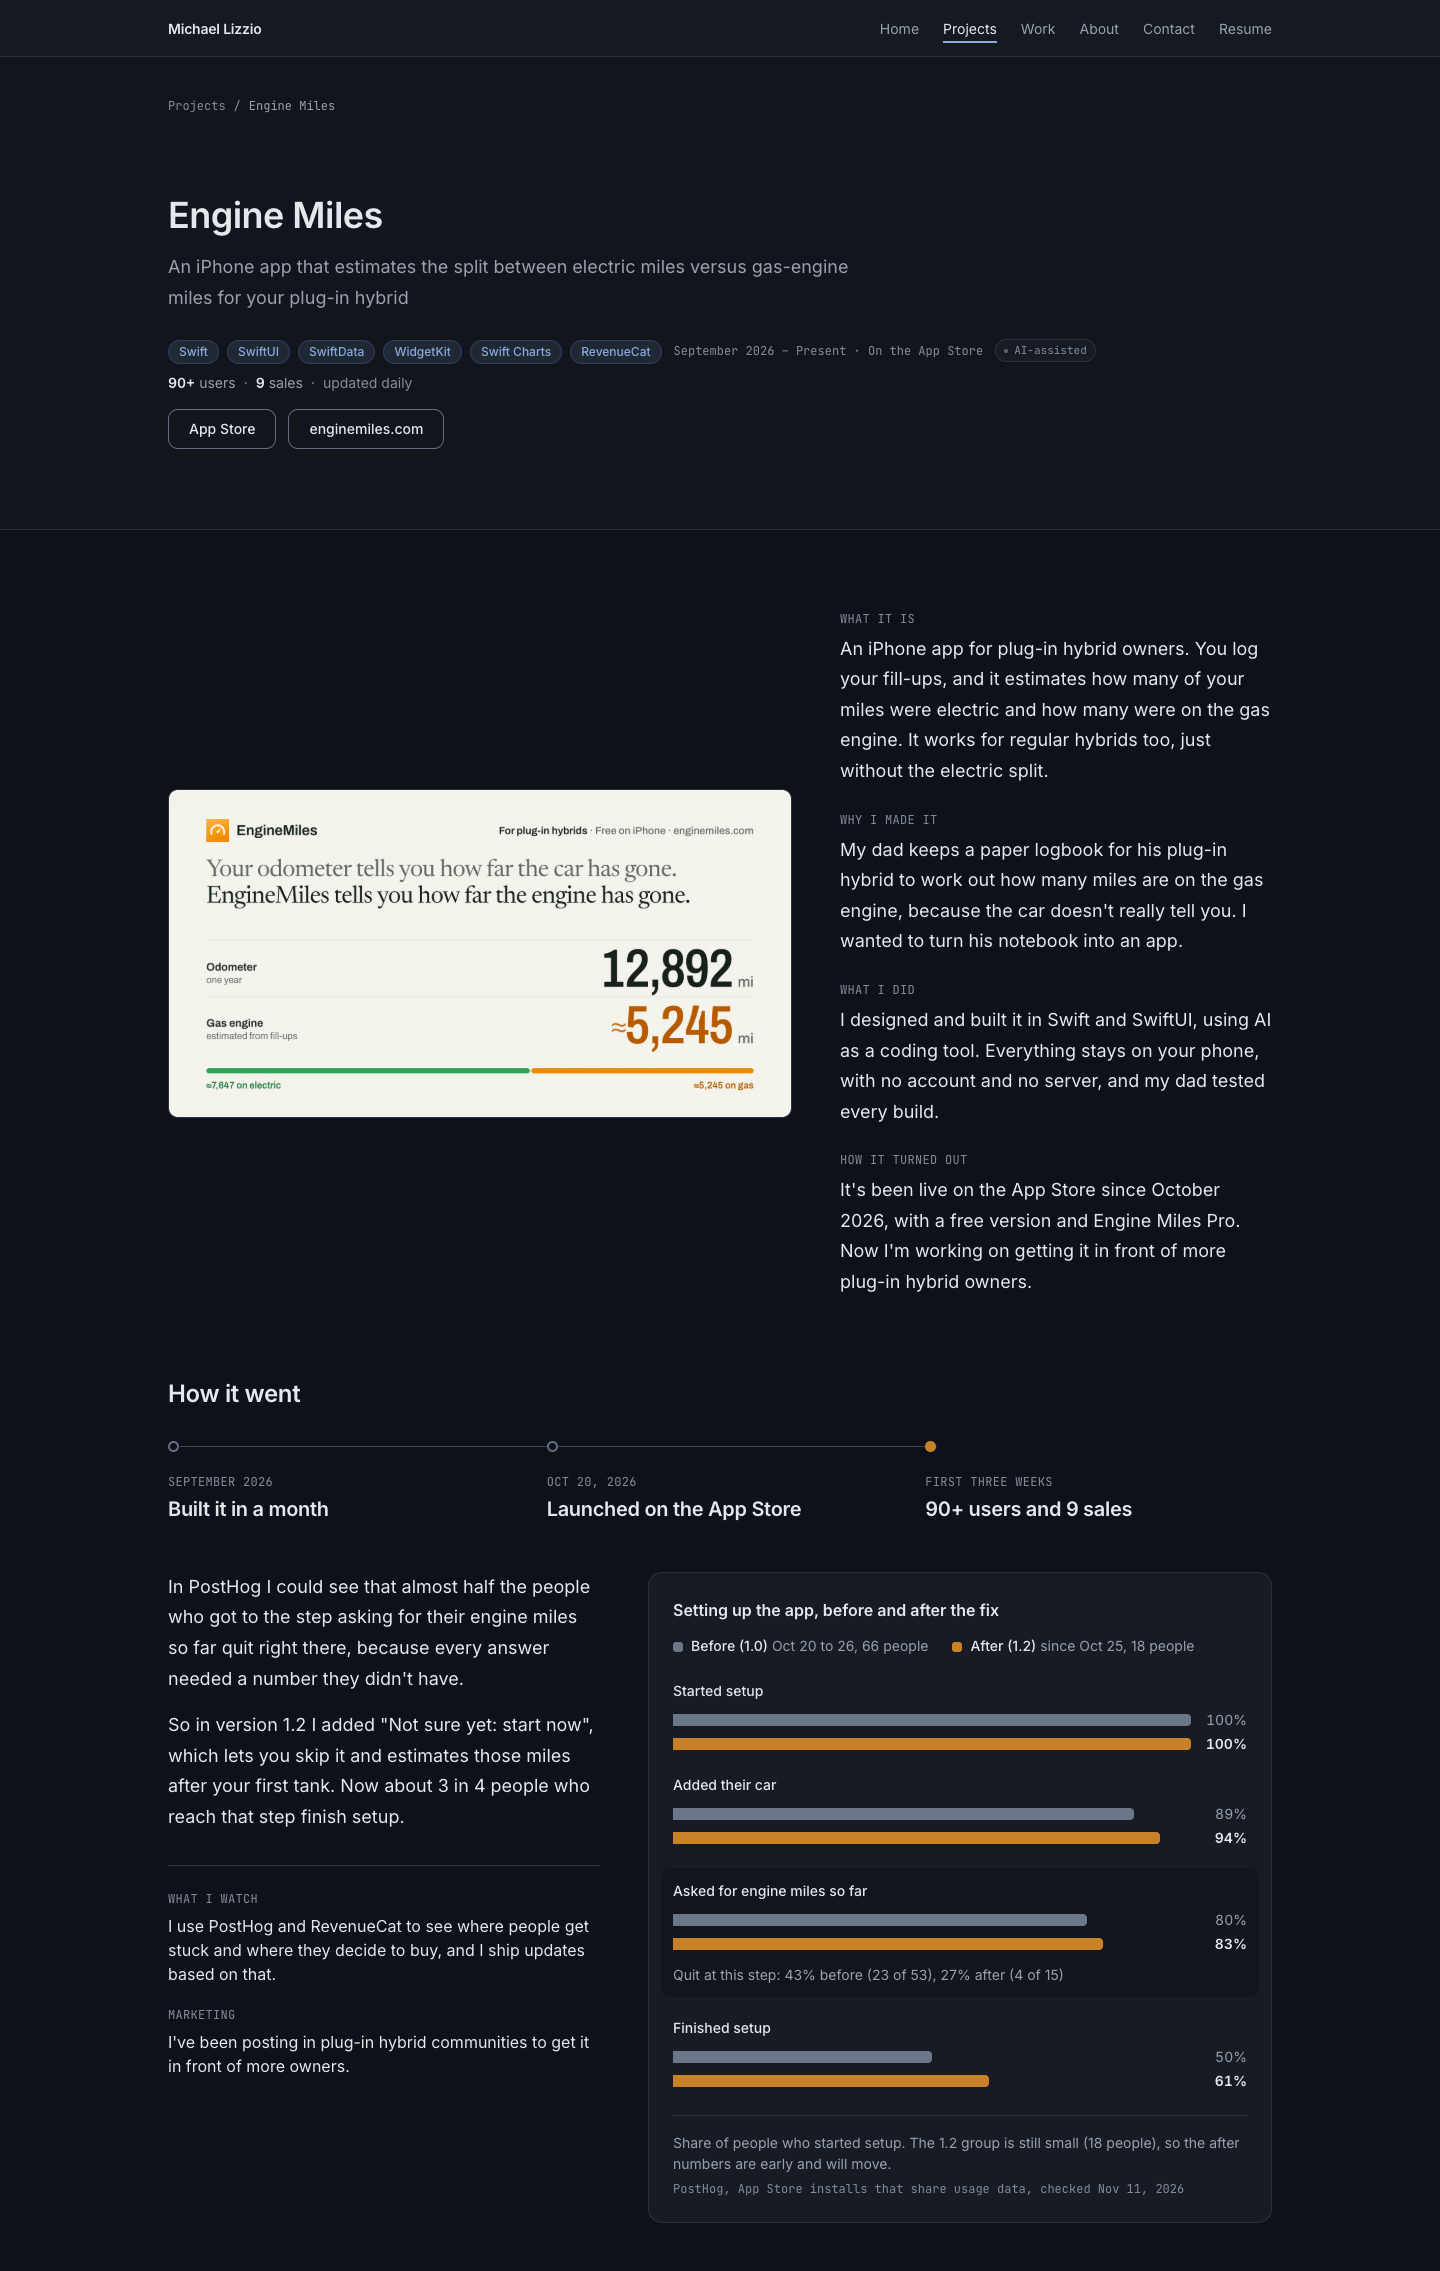
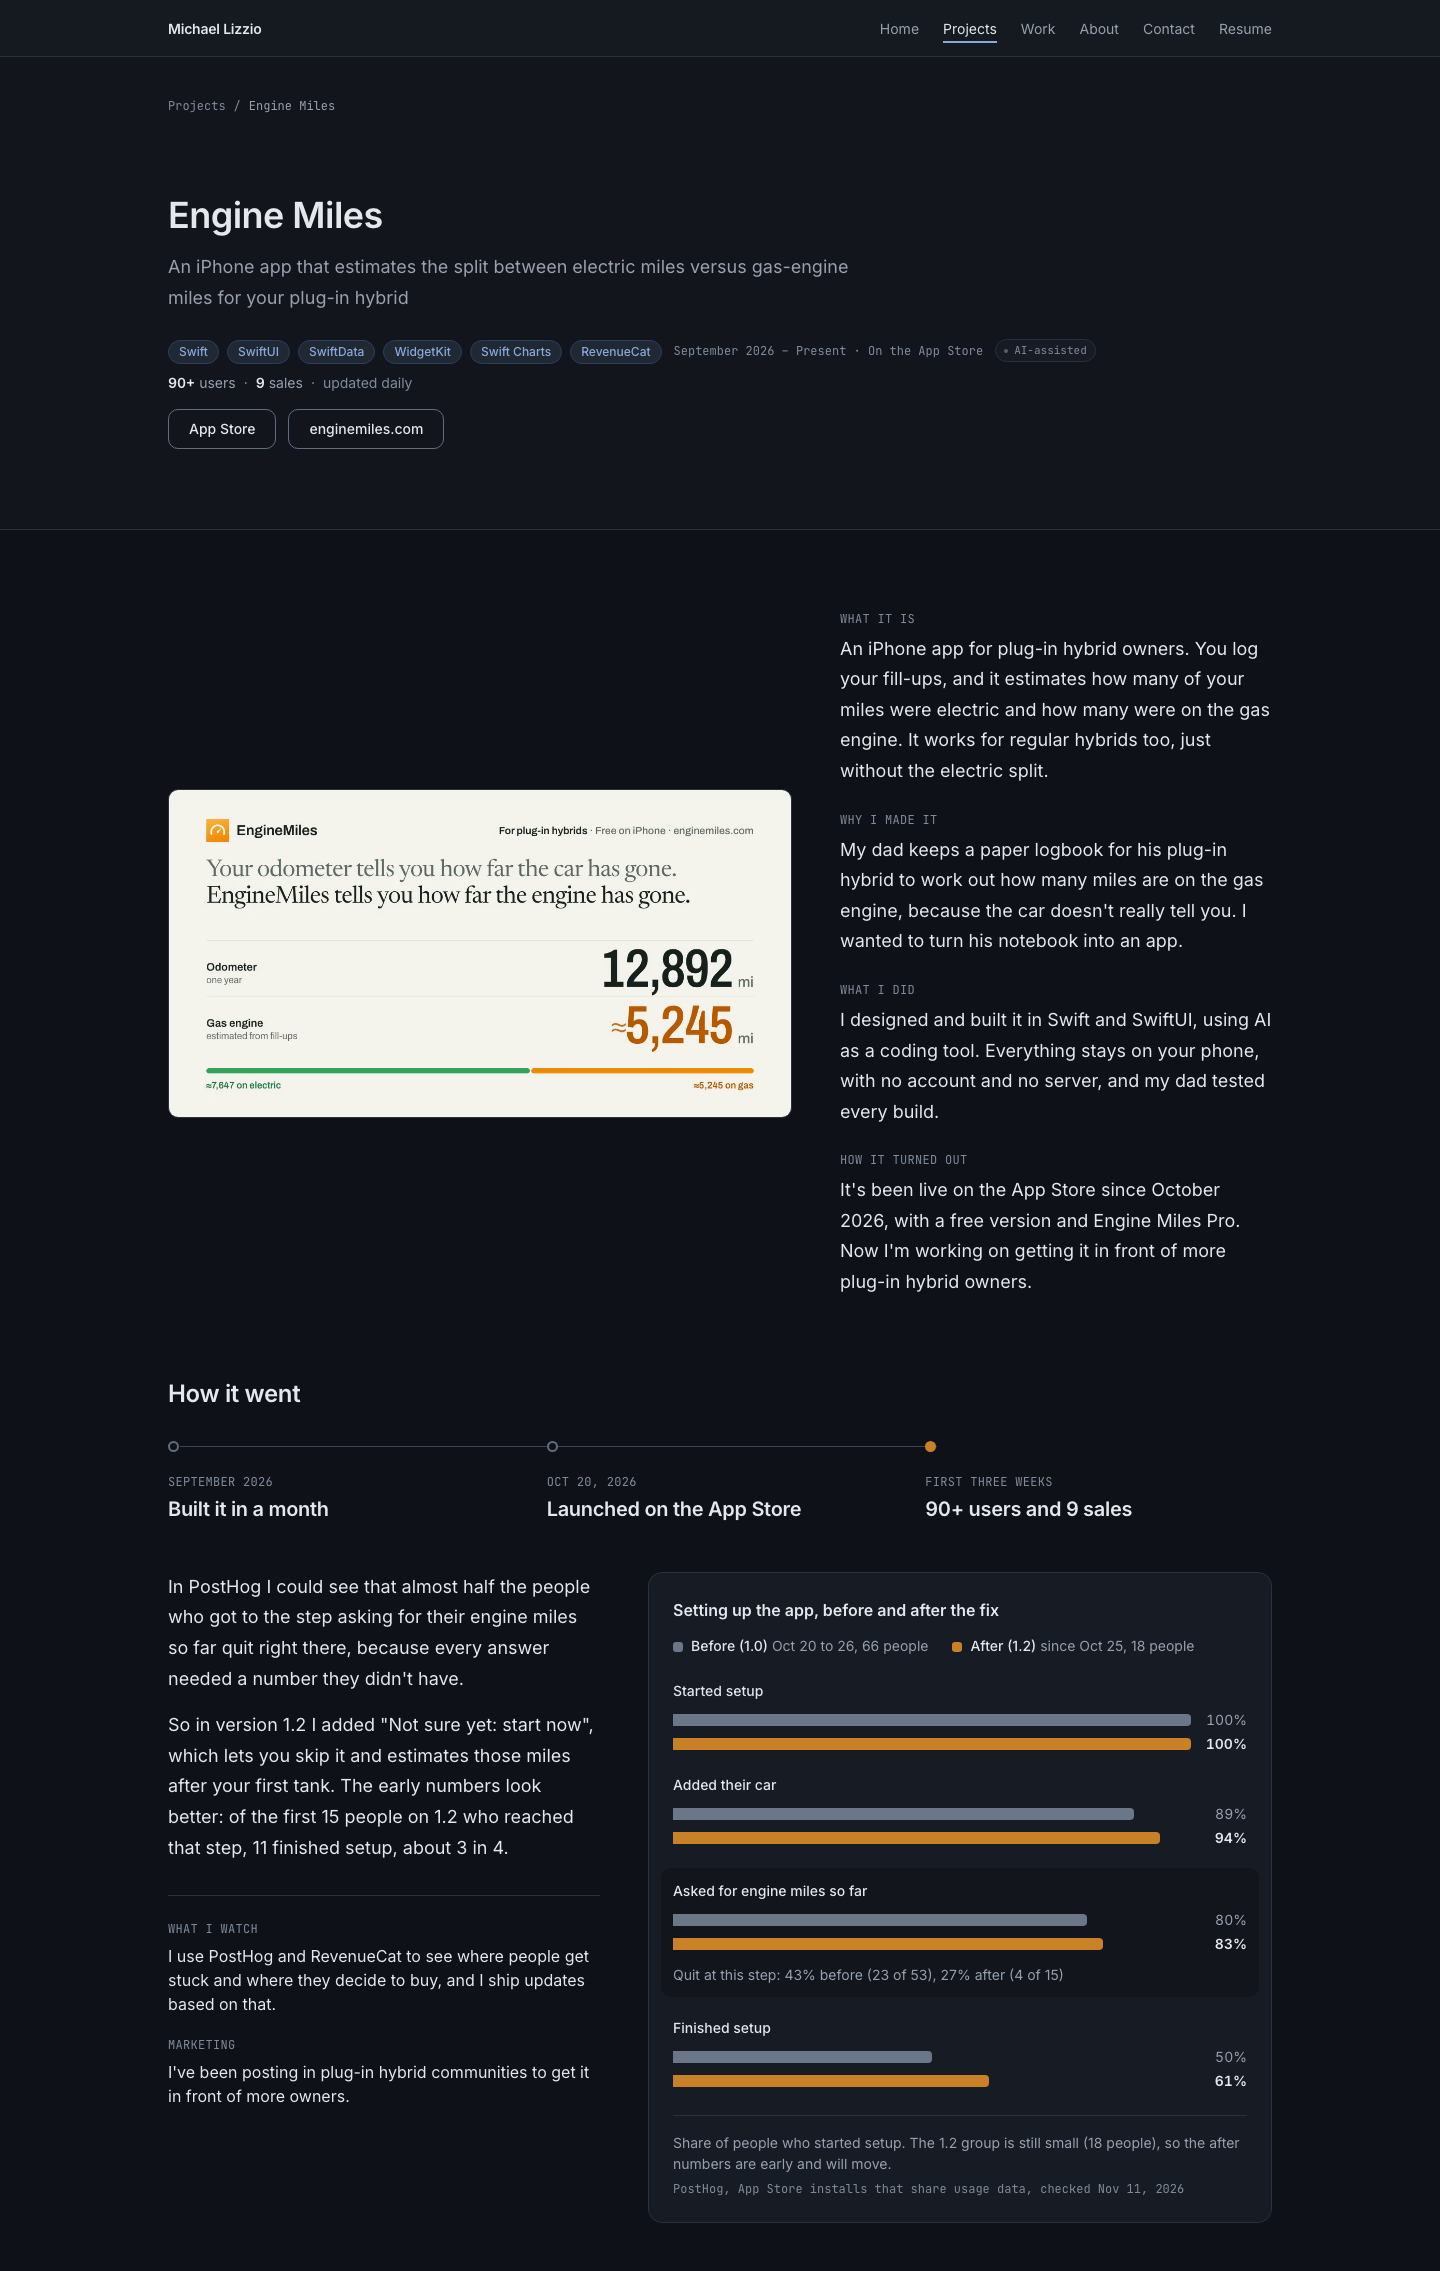
Traction mockups: say the sample size in the setup sentence, fix the base note
- The "How it went" prose now reads "The early numbers look better: of the
  first 15 people on 1.2 who reached that step, 11 finished setup, about 3 in
  4", so the small, early sample is in the sentence itself, not only the chart
  caption. README copy and the four Engine Miles screenshots updated to match.
- README: the branch is based on origin/main b5e4af2 (the plug-in hybrid
  publish), not engine-miles-phev e0a9871; that banner is already live, the
  traction work is not.

Not for publishing: mockup branch only.

Changed region(s): [[0.125, 0.7706, 0.4062, 0.9247]]

diff --git a/docs/traction-mockups/README.md b/docs/traction-mockups/README.md
@@ -1,7 +1,9 @@
 # Traction mockups (November 11, 2026)
 
-Branch `traction-mockups`, cut from `engine-miles-phev` (e0a9871) so the screenshots show the new plug-in
-hybrid banner. Nothing is merged and nothing is live. Cloudflare Pages deploys from `main` only.
+Branch `traction-mockups`, based on `origin/main` at b5e4af2 ("Publish Engine Miles: plug-in hybrid banner,
+screenshots and wording"), so the screenshots show the plug-in hybrid banner. That banner and wording are already
+live from that `main` commit; the traction work on this branch (the "How it went" section, the stats lines and
+`public/stats.json`) is not merged and not live. Cloudflare Pages deploys from `main` only.
 
 What's on the branch:
 
@@ -52,7 +54,11 @@ the header.
 > quit right there, because every answer needed a number they didn't have.
 >
 > So in version 1.2 I added "Not sure yet: start now", which lets you skip it and estimates those miles after
-> your first tank. Now about 3 in 4 people who reach that step finish setup.
+> your first tank. The early numbers look better: of the first 15 people on 1.2 who reached that step, 11
+> finished setup, about 3 in 4.
+
+The second paragraph names the sample (15 people, early) in the sentence itself, so a reader who skips the chart
+caption still sees how small it is.
 
 **Chart:** "Setting up the app, before and after the fix"
 
